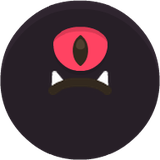
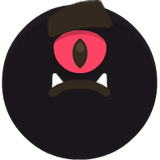
KennaGame: monsters smaller & meaner, blob/drawn MIX, hit-pop flash, death animation
- Painted monsters render 22% smaller (r*2.1) and were all recomposited
  MEAN: angry/psycho/dead eyes, fangs and gritted teeth, furrowed brows,
  darker moodier tints — no more cute smiles on the curse
- The horde is a MIX now: Kenney blob-sprites for the critters (wisp, imp,
  brute, splitter, spitter, shellback, gilded, yeti, magmite + titan/gummy
  bosses), hand-drawn art for the strong silhouettes (shade, charger,
  warlock, reaper, golem, wraith, Concur)
- Struck enemies POP — a quick 1.6x flash-scale punch on every hit,
  on both art paths
- Death animation: the slain stretch, spin and burst away over a quarter
  second (sprite-stretched for blobs, color-pop for drawn kinds)

Claude-Session: https://claude.ai/code/session_01Np6WzRN31FjRSdaUeyMbQF

diff --git a/KennaGame/index.html b/KennaGame/index.html
@@ -2065,7 +2065,7 @@ const game = {
   xp: 0, level: 1, xpNext: 10, choices: null, up: {}, phoenix: 0,
   burstTimer: 40, shake: 0,
 };
-let enemies = [], slashes = [], particles = [], toasts = [], gems = [], drops = [], waves = [], dmgTexts = [], novas = [], bolts = [], runPets = [], chests = [], beams = [], strikes = [];
+let enemies = [], slashes = [], particles = [], toasts = [], gems = [], drops = [], waves = [], dmgTexts = [], novas = [], bolts = [], runPets = [], chests = [], beams = [], strikes = [], dying = [];
 const cam = { x: WORLD_W / 2 - CX, y: WORLD_H / 2 - 320 };
 
 function initRun() {
@@ -2082,7 +2082,7 @@ function initRun() {
   game.chooser = 0;
   game.endingAt = 0;
   for (const p of players) { p.arsT = {}; p.superT = {}; p.arsenal = []; p.supers = {}; p.up = {}; p.fx = []; }
-  enemies = []; slashes = []; particles = []; toasts = []; gems = []; drops = []; waves = []; dmgTexts = []; novas = []; bolts = []; beams = []; strikes = [];
+  enemies = []; slashes = []; particles = []; toasts = []; gems = []; drops = []; waves = []; dmgTexts = []; novas = []; bolts = []; beams = []; strikes = []; dying = [];
   runPets = [];
   PETS.forEach((pd, i) => {
     if (petRank(pd.key) > 0) {
@@ -2627,6 +2627,7 @@ function killEnemy(i) {
   const e = enemies[i];
   game.kills++;
   SFX.kill();
+  dying.push({ kind: e.kind, x: e.x, y: e.y, r: e.r, seed: e.seed, elite: e.elite, age: 0 });
   if (upLvl('mend') > 0) {
     game.mendK = (game.mendK || 0) + 1;
     const need = [99, 22, 15, 9, 6][upLvl('mend')] || 99;
@@ -2652,6 +2653,7 @@ function killEnemy(i) {
     particles.push({ x: e.x, y: e.y, vx: Math.cos(a) * s, vy: Math.sin(a) * s, life: 0.5, color: colors[e.kind], size: e.kind === 'golem' ? 5 : 3 });
   }
   particles.push({ x: e.x, y: e.y, vx: 0, vy: 0, ring: true, life: 0.28, color: colors[e.kind], size: e.r });
+  dying[dying.length - 1].color = colors[e.kind];
   if (e.kind === 'splitter') {
     // bursts into three curse-mites
     for (let k = 0; k < 3; k++) {
@@ -3209,6 +3211,10 @@ function update(dt) {
   for (let i = strikes.length - 1; i >= 0; i--) {
     strikes[i].age += dt;
     if (strikes[i].age > 0.32) strikes.splice(i, 1);
+  }
+  for (let i = dying.length - 1; i >= 0; i--) {
+    dying[i].age += dt;
+    if (dying[i].age > 0.26) dying.splice(i, 1);
   }
 
   // enemies
@@ -3959,7 +3965,8 @@ function drawEnemy(e, t) {
   ctx.save();
   ctx.globalAlpha = e.kind === 'shade' ? pop * 0.85 : pop;
   ctx.translate(e.x, e.y + bob);
-  ctx.scale((0.5 + 0.5 * easeOutQ(pop)) / squash, (0.5 + 0.5 * easeOutQ(pop)) * squash);
+  const hitK = 1 + Math.max(0, e.flash) * 1.6;   // struck spirits POP
+  ctx.scale(hitK * (0.5 + 0.5 * easeOutQ(pop)) / squash, hitK * (0.5 + 0.5 * easeOutQ(pop)) * squash);
 
   // soft glow + ground shadow
   ctx.drawImage(GLOWS[e.kind], -e.r * 2.1, -e.r * 2.1, e.r * 4.2, e.r * 4.2);
@@ -3994,10 +4001,12 @@ function drawEnemy(e, t) {
     }
   }
 
-  const eim = ENEMY_IMG[e.kind === 'mite' ? 'splitter' : e.kind];
+  // the horde is a MIX: blob-sprites for the critters, hand-drawn art for the
+  // strong silhouettes (robes, scythes, hexes, diamonds)
+  const eim = DRAWN_KINDS.has(e.kind) ? null : ENEMY_IMG[e.kind === 'mite' ? 'splitter' : e.kind];
   if (eim) {
     // the painted monster itself
-    const ih = e.r * 2.7, iw = ih * (eim.width / eim.height);
+    const ih = e.r * 2.1, iw = ih * (eim.width / eim.height);
     const needsFilter = e.flash > 0 || e.slowT > 0;
     if (needsFilter) {
       ctx.filter = e.flash > 0 ? 'brightness(2.4) saturate(0.4)' : 'saturate(0.55) brightness(1.15) hue-rotate(160deg)';
@@ -4758,6 +4767,7 @@ function drawPlayerSprite(p, t) {
 const SPRITE_IMG = {};
 // painted monsters: monsters/<kind>.png replaces the drawn body the moment it exists
 const ENEMY_IMG = {};
+const DRAWN_KINDS = new Set(['shade', 'charger', 'warlock', 'reaper', 'golem', 'concur', 'wraith']);
 for (const ek of ['wisp', 'imp', 'shade', 'brute', 'spitter', 'splitter', 'shellback', 'golem',
                   'charger', 'warlock', 'reaper', 'gilded', 'yeti', 'magmite',
                   'titan', 'wraith', 'gummy', 'concur']) {
@@ -6671,6 +6681,26 @@ function render(t) {
   }
 
   const drawList = [];
+  // death pops: the slain stretch, spin and burst away in a quarter second
+  for (const d2 of dying) {
+    ctx.save();
+    ctx.translate(d2.x, d2.y);
+    const df = d2.age / 0.26;
+    ctx.globalAlpha = 1 - df;
+    ctx.rotate(df * 0.9 * (d2.seed % 2 ? 1 : -1));
+    const dk = 1 + df * 1.1;
+    ctx.scale(dk, Math.max(0.05, 1 - df * 0.7));
+    const dim = DRAWN_KINDS.has(d2.kind) ? null : ENEMY_IMG[d2.kind === 'mite' ? 'splitter' : d2.kind];
+    if (dim) {
+      const dh2 = d2.r * 2.1, dw2 = dh2 * (dim.width / dim.height);
+      ctx.drawImage(dim, -dw2 / 2, -dh2 * 0.58, dw2, dh2);
+    } else {
+      ctx.fillStyle = d2.color || '#e8e4da';
+      ctx.beginPath(); ctx.arc(0, 0, d2.r * (1 - df * 0.4), 0, Math.PI * 2); ctx.fill();
+    }
+    ctx.restore();
+    ctx.globalAlpha = 1;
+  }
   for (const e of enemies) drawList.push({ y: e.y, kind: 'enemy', e });
   for (const p of players) if (p.joined) drawList.push({ y: p.y, kind: 'player', p });
   for (const pe of runPets) drawList.push({ y: pe.y + 30, kind: 'pet', pe });
